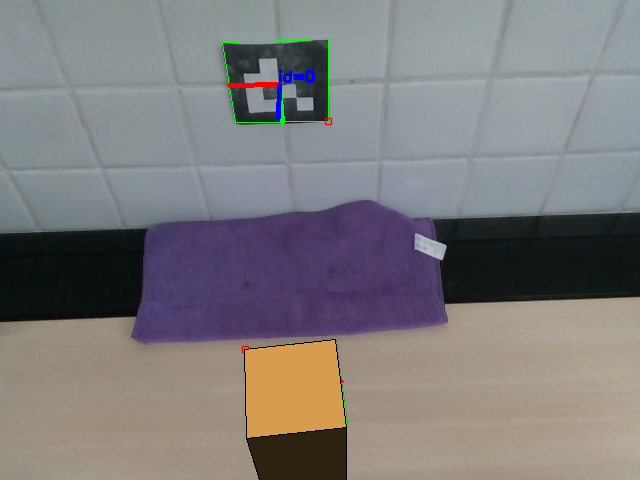
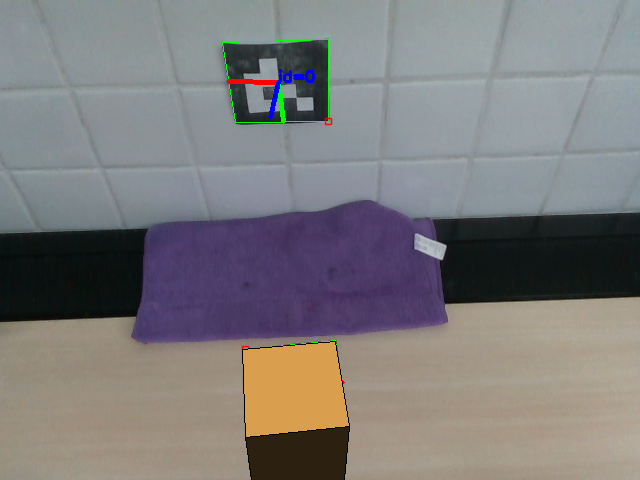
solve_pnp added

diff --git a/utils/camera_math.py b/utils/camera_math.py
@@ -1,122 +1,286 @@
 import numpy as np
 
+
 class CameraMathUtils:
     """
     Utility class implementing fundamental camera geometry functions,
     based strictly on Hartley & Zisserman (Multiple View Geometry, 2nd Edition).
     """
 
+    # -------------------------------------------------------------------------
+    # Rotation utilities
+    # -------------------------------------------------------------------------
     @staticmethod
-    def rodrigues(rvec):
+    def rodrigues(rvec: np.ndarray):
         """
-        Manual implementation of Rodrigues' rotation formula.
-        Converts a 3D rotation vector into a 3x3 rotation matrix.
+        Rodrigues' rotation formula (vector -> rotation matrix).
+        Returns (R, None, rvec) to stay compatible with OpenCV-like signature.
 
         Reference:
-        - H&Z Appendix A, Exponential map for SO(3).
+        - H&Z, Appendix A: Exponential map for SO(3).
         """
-        rvec = rvec.flatten().astype(float)
+        rvec = np.asarray(rvec, dtype=float).reshape(3)
         theta = np.linalg.norm(rvec)
 
         if theta < 1e-12:
-            # For very small angles, return identity
-            R = np.eye(3)
+            R = np.eye(3, dtype=float)
         else:
-            # Normalized rotation axis
             k = rvec / theta
             kx, ky, kz = k
+            K = np.array([[0, -kz, ky],
+                          [kz, 0, -kx],
+                          [-ky, kx, 0]], dtype=float)
+            I = np.eye(3, dtype=float)
+            # R = I cosθ + (1-cosθ) kk^T + sinθ K
+            R = I * np.cos(theta) + (1.0 - np.cos(theta)) * np.outer(k, k) + np.sin(theta) * K
 
-            # Skew-symmetric cross-product matrix of k
-            K = np.array([
-                [0, -kz, ky],
-                [kz, 0, -kx],
-                [-ky, kx, 0]
-            ])
-
-            I = np.eye(3)
-            # Rodrigues formula: R = I cosθ + (1-cosθ)kk^T + sinθK
-            R = I * np.cos(theta) + (1 - np.cos(theta)) * np.outer(k, k) + np.sin(theta) * K
-
-        # Jacobian not needed here
         jacobian = None
         return R, jacobian, rvec
 
-
     @staticmethod
-    def l2_norm_manual(points1, points2):
+    def rotation_matrix_to_rvec(R: np.ndarray) -> np.ndarray:
         """
-        Manual implementation of L2 norm (equivalent to cv2.norm with cv2.NORM_L2).
-        
-        Based on H&Z Section 6.3.1:
-        The geometric error is defined as the Euclidean distance between
-        observed image points and reprojected points.
+        Inverse Rodrigues: rotation matrix -> rotation vector.
+
+        Reference:
+        - H&Z, Appendix A; also classic SO(3) logarithm map.
+        """
+        R = np.asarray(R, dtype=float).reshape(3, 3)
+        tr = float(np.trace(R))
+        # Clip for numeric safety
+        cos_theta = np.clip((tr - 1.0) * 0.5, -1.0, 1.0)
+        theta = np.arccos(cos_theta)
+
+        if theta < 1e-12:
+            return np.zeros((3, ), dtype=float)
+
+        if np.pi - theta < 1e-6:
+            # Near 180 degrees: use robust extraction from diagonal
+            rx = np.sqrt(max((R[0, 0] + 1.0) / 2.0, 0.0))
+            ry = np.sqrt(max((R[1, 1] + 1.0) / 2.0, 0.0))
+            rz = np.sqrt(max((R[2, 2] + 1.0) / 2.0, 0.0))
+            rx = np.copysign(rx, R[2, 1] - R[1, 2])
+            ry = np.copysign(ry, R[0, 2] - R[2, 0])
+            rz = np.copysign(rz, R[1, 0] - R[0, 1])
+            axis = np.array([rx, ry, rz], dtype=float)
+            n = np.linalg.norm(axis) + 1e-12
+            axis /= n
+            return axis * theta
+
+        axis = np.array([R[2, 1] - R[1, 2],
+                         R[0, 2] - R[2, 0],
+                         R[1, 0] - R[0, 1]], dtype=float) / (2.0 * np.sin(theta))
+        axis /= (np.linalg.norm(axis) + 1e-12)
+        return axis * theta
+
+    # -------------------------------------------------------------------------
+    # Error / norms
+    # -------------------------------------------------------------------------
+    @staticmethod
+    def l2_norm_manual(points1: np.ndarray, points2: np.ndarray) -> float:
+        """
+        Manual L2 norm equivalent to cv2.norm(..., NORM_L2) over full arrays.
+
+        H&Z 6.3.1: geometric error as Euclidean distance between observed
+        and reprojected image points.
         """
         p1 = np.squeeze(points1)
         p2 = np.squeeze(points2)
-
         diff = p1 - p2
-        squared_dist = np.sum(diff ** 2, axis=-1)
-        total = np.sum(squared_dist)
+        return float(np.sqrt(np.sum(diff * diff)))
 
-        return np.sqrt(total)
-
-
+    # -------------------------------------------------------------------------
+    # Projection
+    # -------------------------------------------------------------------------
     @staticmethod
-    def project_points(object_points, rvec, tvec, camera_matrix, dist_coeffs,
-                       compute_jacobian=False, eps=1e-6):
+    def project_points(object_points: np.ndarray,
+                       rvec: np.ndarray,
+                       tvec: np.ndarray,
+                       camera_matrix: np.ndarray,
+                       dist_coeffs: np.ndarray,
+                       compute_jacobian: bool = False,
+                       eps: float = 1e-6):
         """
-        Manual projectPoints with optional numerical Jacobian.
-        """
-        # --- inner projection function ---
-        def _project(rvec, tvec, K, d):
-            theta = np.linalg.norm(rvec)
-            if theta < 1e-14:
-                R = np.eye(3)
-            else:
-                r = rvec.flatten() / theta
-                Kmat = np.array([
-                    [0, -r[2], r[1]],
-                    [r[2], 0, -r[0]],
-                    [-r[1], r[0], 0]
-                ])
-                R = np.eye(3) + np.sin(theta) * Kmat + (1 - np.cos(theta)) * (Kmat @ Kmat)
+        Manual version of cv2.projectPoints with optional numerical Jacobian.
 
-            X = np.asarray(object_points).reshape(-1, 3).T
-            X_cam = (R @ X) + tvec.reshape(3, 1)
+        Distortion model: (k1, k2, p1, p2, k3).
+
+        References:
+        - H&Z 6.1–6.3 (pinhole projection and distortion models).
+        """
+        def _parse_distortion(d: np.ndarray):
+            d = np.asarray(d, dtype=float).reshape(-1)
+            # Accept 4 or 5 parameters; pad k3 if missing
+            if d.size == 4:
+                k1, k2, p1, p2 = d
+                k3 = 0.0
+            elif d.size >= 5:
+                k1, k2, p1, p2, k3 = d[:5]
+            else:
+                # No distortion provided
+                k1 = k2 = p1 = p2 = k3 = 0.0
+            return k1, k2, p1, p2, k3
+
+        # --- base projection (no Jacobian) ---
+        def _project(rvec_, tvec_, K_, d_):
+            # Rotation
+            R_, _, _ = CameraMathUtils.rodrigues(rvec_)
+            X = np.asarray(object_points, dtype=float).reshape(-1, 3).T  # (3, N)
+            X_cam = (R_ @ X) + np.asarray(tvec_, dtype=float).reshape(3, 1)
+
             x = X_cam[0, :] / X_cam[2, :]
             y = X_cam[1, :] / X_cam[2, :]
-            r2 = x**2 + y**2
-            k1, k2, p1, p2, k3 = d.flatten()
-            radial = 1 + k1*r2 + k2*r2**2 + k3*r2**3
-            x_dist = x*radial + 2*p1*x*y + p2*(r2 + 2*x**2)
-            y_dist = y*radial + p1*(r2 + 2*y**2) + 2*p2*x*y
-            fx, fy = K[0, 0], K[1, 1]
-            cx, cy = K[0, 2], K[1, 2]
+            r2 = x * x + y * y
+
+            k1, k2, p1, p2, k3 = _parse_distortion(d_)
+            radial = 1.0 + k1 * r2 + k2 * (r2 ** 2) + k3 * (r2 ** 3)
+            x_dist = x * radial + 2.0 * p1 * x * y + p2 * (r2 + 2.0 * x * x)
+            y_dist = y * radial + p1 * (r2 + 2.0 * y * y) + 2.0 * p2 * x * y
+
+            fx, fy = K_[0, 0], K_[1, 1]
+            cx, cy = K_[0, 2], K_[1, 2]
             u = fx * x_dist + cx
             v = fy * y_dist + cy
             return np.stack([u, v], axis=1).reshape(-1)
 
-        # --- base projection ---
         img_points_flat = _project(rvec, tvec, camera_matrix, dist_coeffs)
         image_points = img_points_flat.reshape(-1, 1, 2)
 
-        # --- numerical Jacobian ---
         if not compute_jacobian:
             return image_points, None
 
-        params = np.hstack([rvec.flatten(), tvec.flatten(), dist_coeffs.flatten()])
-        M = len(params)
-        N = len(img_points_flat)
-        J = np.zeros((N, M))
+        # --- numerical Jacobian wrt [rvec(3), tvec(3), dist(5)] ---
+        d = np.asarray(dist_coeffs, dtype=float).reshape(-1)
+        if d.size < 5:
+            d = np.pad(d, (0, 5 - d.size), constant_values=0.0)
+
+        params = np.hstack([np.asarray(rvec, dtype=float).reshape(3),
+                            np.asarray(tvec, dtype=float).reshape(3),
+                            d[:5]])
+        M = params.size
+        N = img_points_flat.size
+        J = np.zeros((N, M), dtype=float)
 
         for i in range(M):
             dp = np.zeros_like(params)
             dp[i] = eps
-            params_eps = params + dp
-            rvec_eps = params_eps[:3]
-            tvec_eps = params_eps[3:6]
-            d_eps = params_eps[6:]
-            img_points_eps = _project(rvec_eps, tvec_eps, camera_matrix, d_eps)
-            J[:, i] = (img_points_eps - img_points_flat) / eps
+            rvec_eps = params[:3] + dp[:3]
+            tvec_eps = params[3:6] + dp[3:6]
+            dist_eps = params[6:] + dp[6:]
+            img_eps = _project(rvec_eps, tvec_eps, camera_matrix, dist_eps)
+            J[:, i] = (img_eps - img_points_flat) / eps
 
         return image_points, J
+
+    # -------------------------------------------------------------------------
+    # Homography-based planar PnP
+    # -------------------------------------------------------------------------
+    @staticmethod
+    def normalize_points_2d(pts: np.ndarray):
+        """
+        Hartley normalization (H&Z Sec. 4.4): translate to centroid and scale
+        so mean distance to the origin equals sqrt(2).
+        Returns normalized homogeneous points (N,3) and the normalization matrix T (3,3).
+        """
+        pts = np.asarray(pts, dtype=float).reshape(-1, 2)
+        c = pts.mean(axis=0)
+        d = np.linalg.norm(pts - c, axis=1).mean()
+        s = np.sqrt(2.0) / max(d, 1e-12)
+        T = np.array([[s, 0.0, -s * c[0]],
+                      [0.0, s, -s * c[1]],
+                      [0.0, 0.0, 1.0]], dtype=float)
+        pts_h = np.hstack([pts, np.ones((pts.shape[0], 1), dtype=float)])
+        pts_n = (T @ pts_h.T).T
+        return pts_n, T
+
+    @staticmethod
+    def homography_dlt(XY: np.ndarray, uv: np.ndarray) -> np.ndarray:
+        """
+        Direct Linear Transform for planar homography with normalization.
+        XY: (N,2) plane points; uv: (N,2) image points. N >= 4.
+
+        Reference: H&Z Sec. 4.1 and 4.4.
+        """
+        XYn, T1 = CameraMathUtils.normalize_points_2d(XY)
+        uvn, T2 = CameraMathUtils.normalize_points_2d(uv)
+
+        A = []
+        for (X, Y, _), (u, v, _) in zip(XYn, uvn):
+            A.append([0, 0, 0, -X, -Y, -1, v * X, v * Y, v])
+            A.append([X, Y, 1, 0, 0, 0, -u * X, -u * Y, -u])
+        A = np.asarray(A, dtype=float)
+
+        _, _, Vt = np.linalg.svd(A)
+        Hn = Vt[-1].reshape(3, 3)
+        H = np.linalg.inv(T2) @ Hn @ T1
+        if abs(H[2, 2]) > 1e-12:
+            H /= H[2, 2]
+        return H
+
+    @staticmethod
+    def pose_from_homography(H: np.ndarray, K: np.ndarray):
+        """
+        Recover pose [R|t] from homography with known intrinsics K.
+
+        K^{-1} H = [λ r1 | λ r2 | λ t], enforce orthonormality via SVD.
+
+        Reference: H&Z Sec. 7.2 (pose from calibrated homography).
+        """
+        K = np.asarray(K, dtype=float).reshape(3, 3)
+        Kinv = np.linalg.inv(K)
+        B = Kinv @ H
+        b1, b2, b3 = B[:, 0], B[:, 1], B[:, 2]
+
+        lam = 0.5 * (1.0 / (np.linalg.norm(b1) + 1e-12) +
+                     1.0 / (np.linalg.norm(b2) + 1e-12))
+        r1 = b1 * lam
+        r2 = b2 * lam
+        r3 = np.cross(r1, r2)
+
+        R_approx = np.column_stack([r1, r2, r3])
+        U, _, Vt = np.linalg.svd(R_approx)
+        R = U @ Vt
+        if np.linalg.det(R) < 0:
+            U[:, -1] *= -1
+            R = U @ Vt
+
+        t = b3 * lam
+        return R, t
+
+    @staticmethod
+    def solve_pnp(obj_points: np.ndarray,
+                  img_points: np.ndarray,
+                  camera_matrix: np.ndarray):
+        """
+        Planar PnP via homography (DLT + Hartley normalization) with known intrinsics.
+
+        Args:
+            obj_points: (N,3) object points on the marker plane (Z=0).
+            img_points: (N,2) corresponding image points.
+            camera_matrix: (3,3) intrinsic matrix K.
+
+        Returns:
+            rvec: (3,1) Rodrigues rotation vector.
+            tvec: (3,1) translation vector.
+
+        References:
+        - H&Z Sec. 4.1 (plane-induced homography), Sec. 4.4 (normalization),
+          Sec. 7.2 (pose from calibrated homography).
+        """
+        obj_points = np.asarray(obj_points, dtype=float).reshape(-1, 3)
+        img_points = np.asarray(img_points, dtype=float).reshape(-1, 2)
+        K = np.asarray(camera_matrix, dtype=float).reshape(3, 3)
+
+        if obj_points.shape[0] < 4:
+            raise ValueError("Need at least 4 correspondences for homography-based PnP.")
+        if not np.allclose(obj_points[:, 2], 0.0, atol=1e-12):
+            raise ValueError("Planar PnP requires Z=0 for all object points.")
+
+        XY = obj_points[:, :2]
+        uv = img_points
+
+        H = CameraMathUtils.homography_dlt(XY, uv)
+        R, t = CameraMathUtils.pose_from_homography(H, K)
+        rvec = CameraMathUtils.rotation_matrix_to_rvec(R).reshape(3, 1)
+        tvec = t.reshape(3, 1)
+        return rvec, tvec

diff --git a/utils/augmented_reality_marker.py b/utils/augmented_reality_marker.py
@@ -33,9 +33,7 @@ class ARMarker(CameraMathUtils):
 
         img_points = corners.reshape(-1, 2)
 
-        success, rvec, tvec = cv2.solvePnP(
-            obj_points, img_points, self.camera_matrix, self.dist_coeffs
-        )
+        rvec, tvec = self.solve_pnp(obj_points, img_points, self.camera_matrix)
         return rvec, tvec
 
     def draw_shaded_cuboid(self, frame, rvec, tvec, height_scale=1.0):
